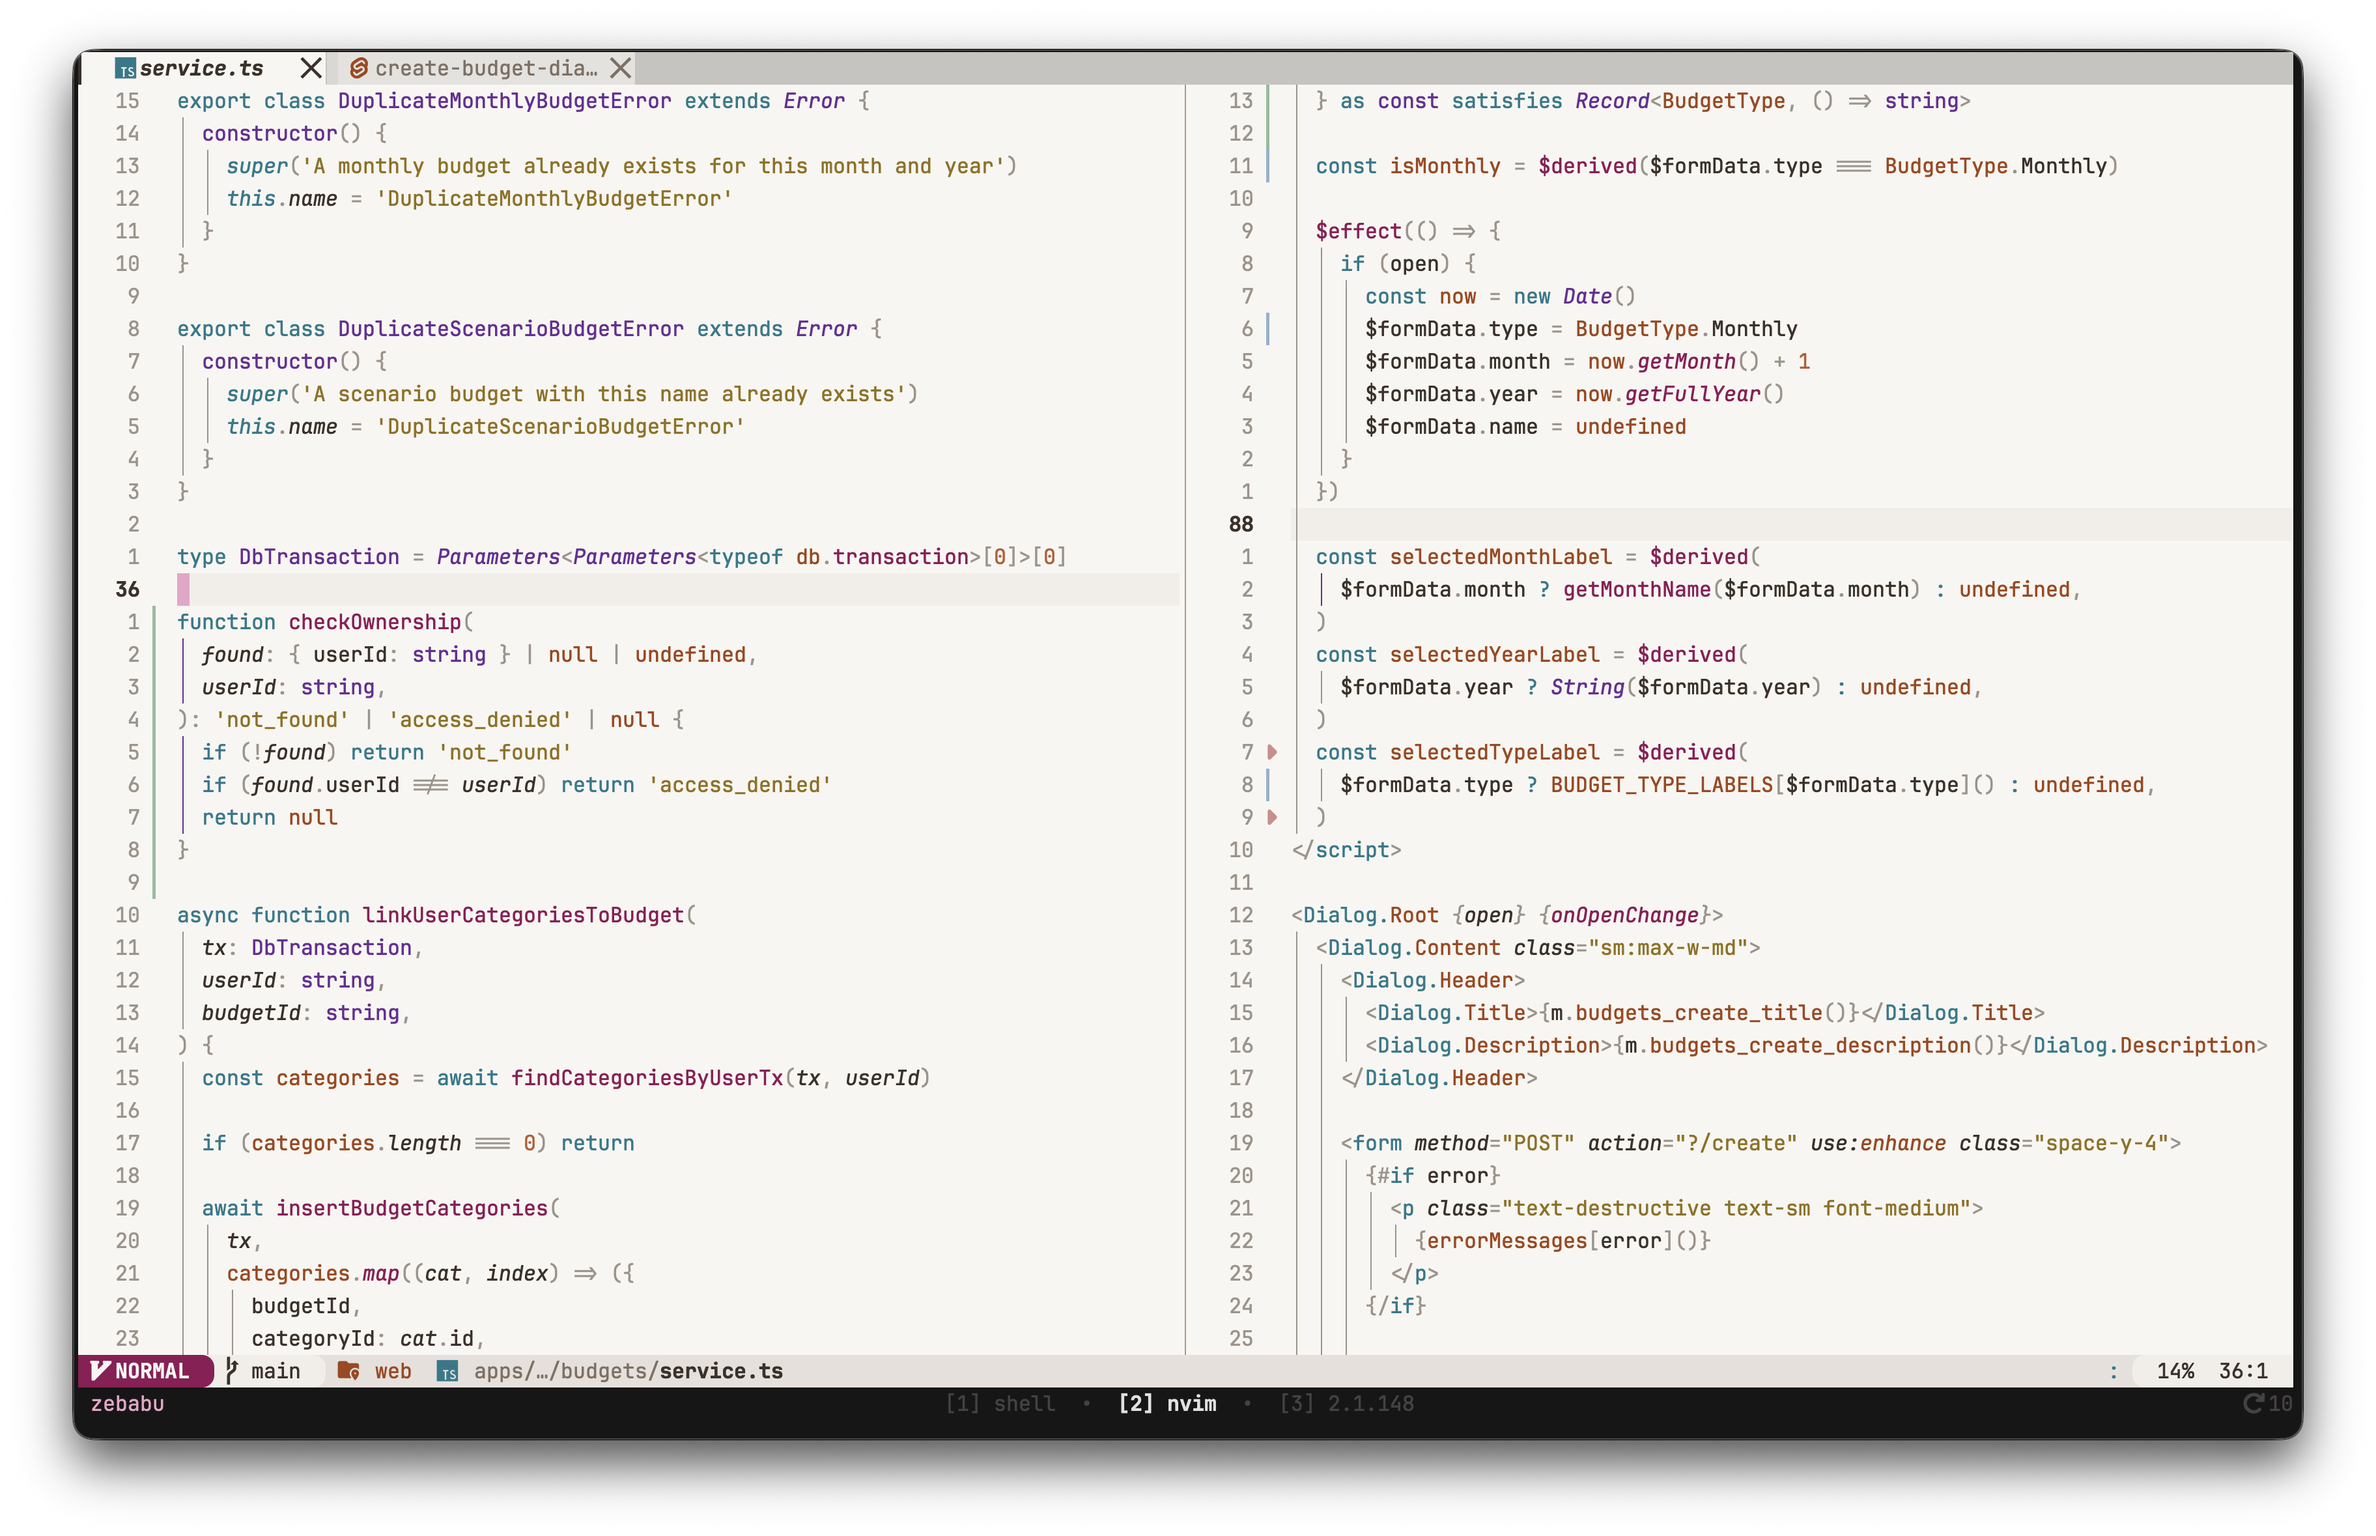
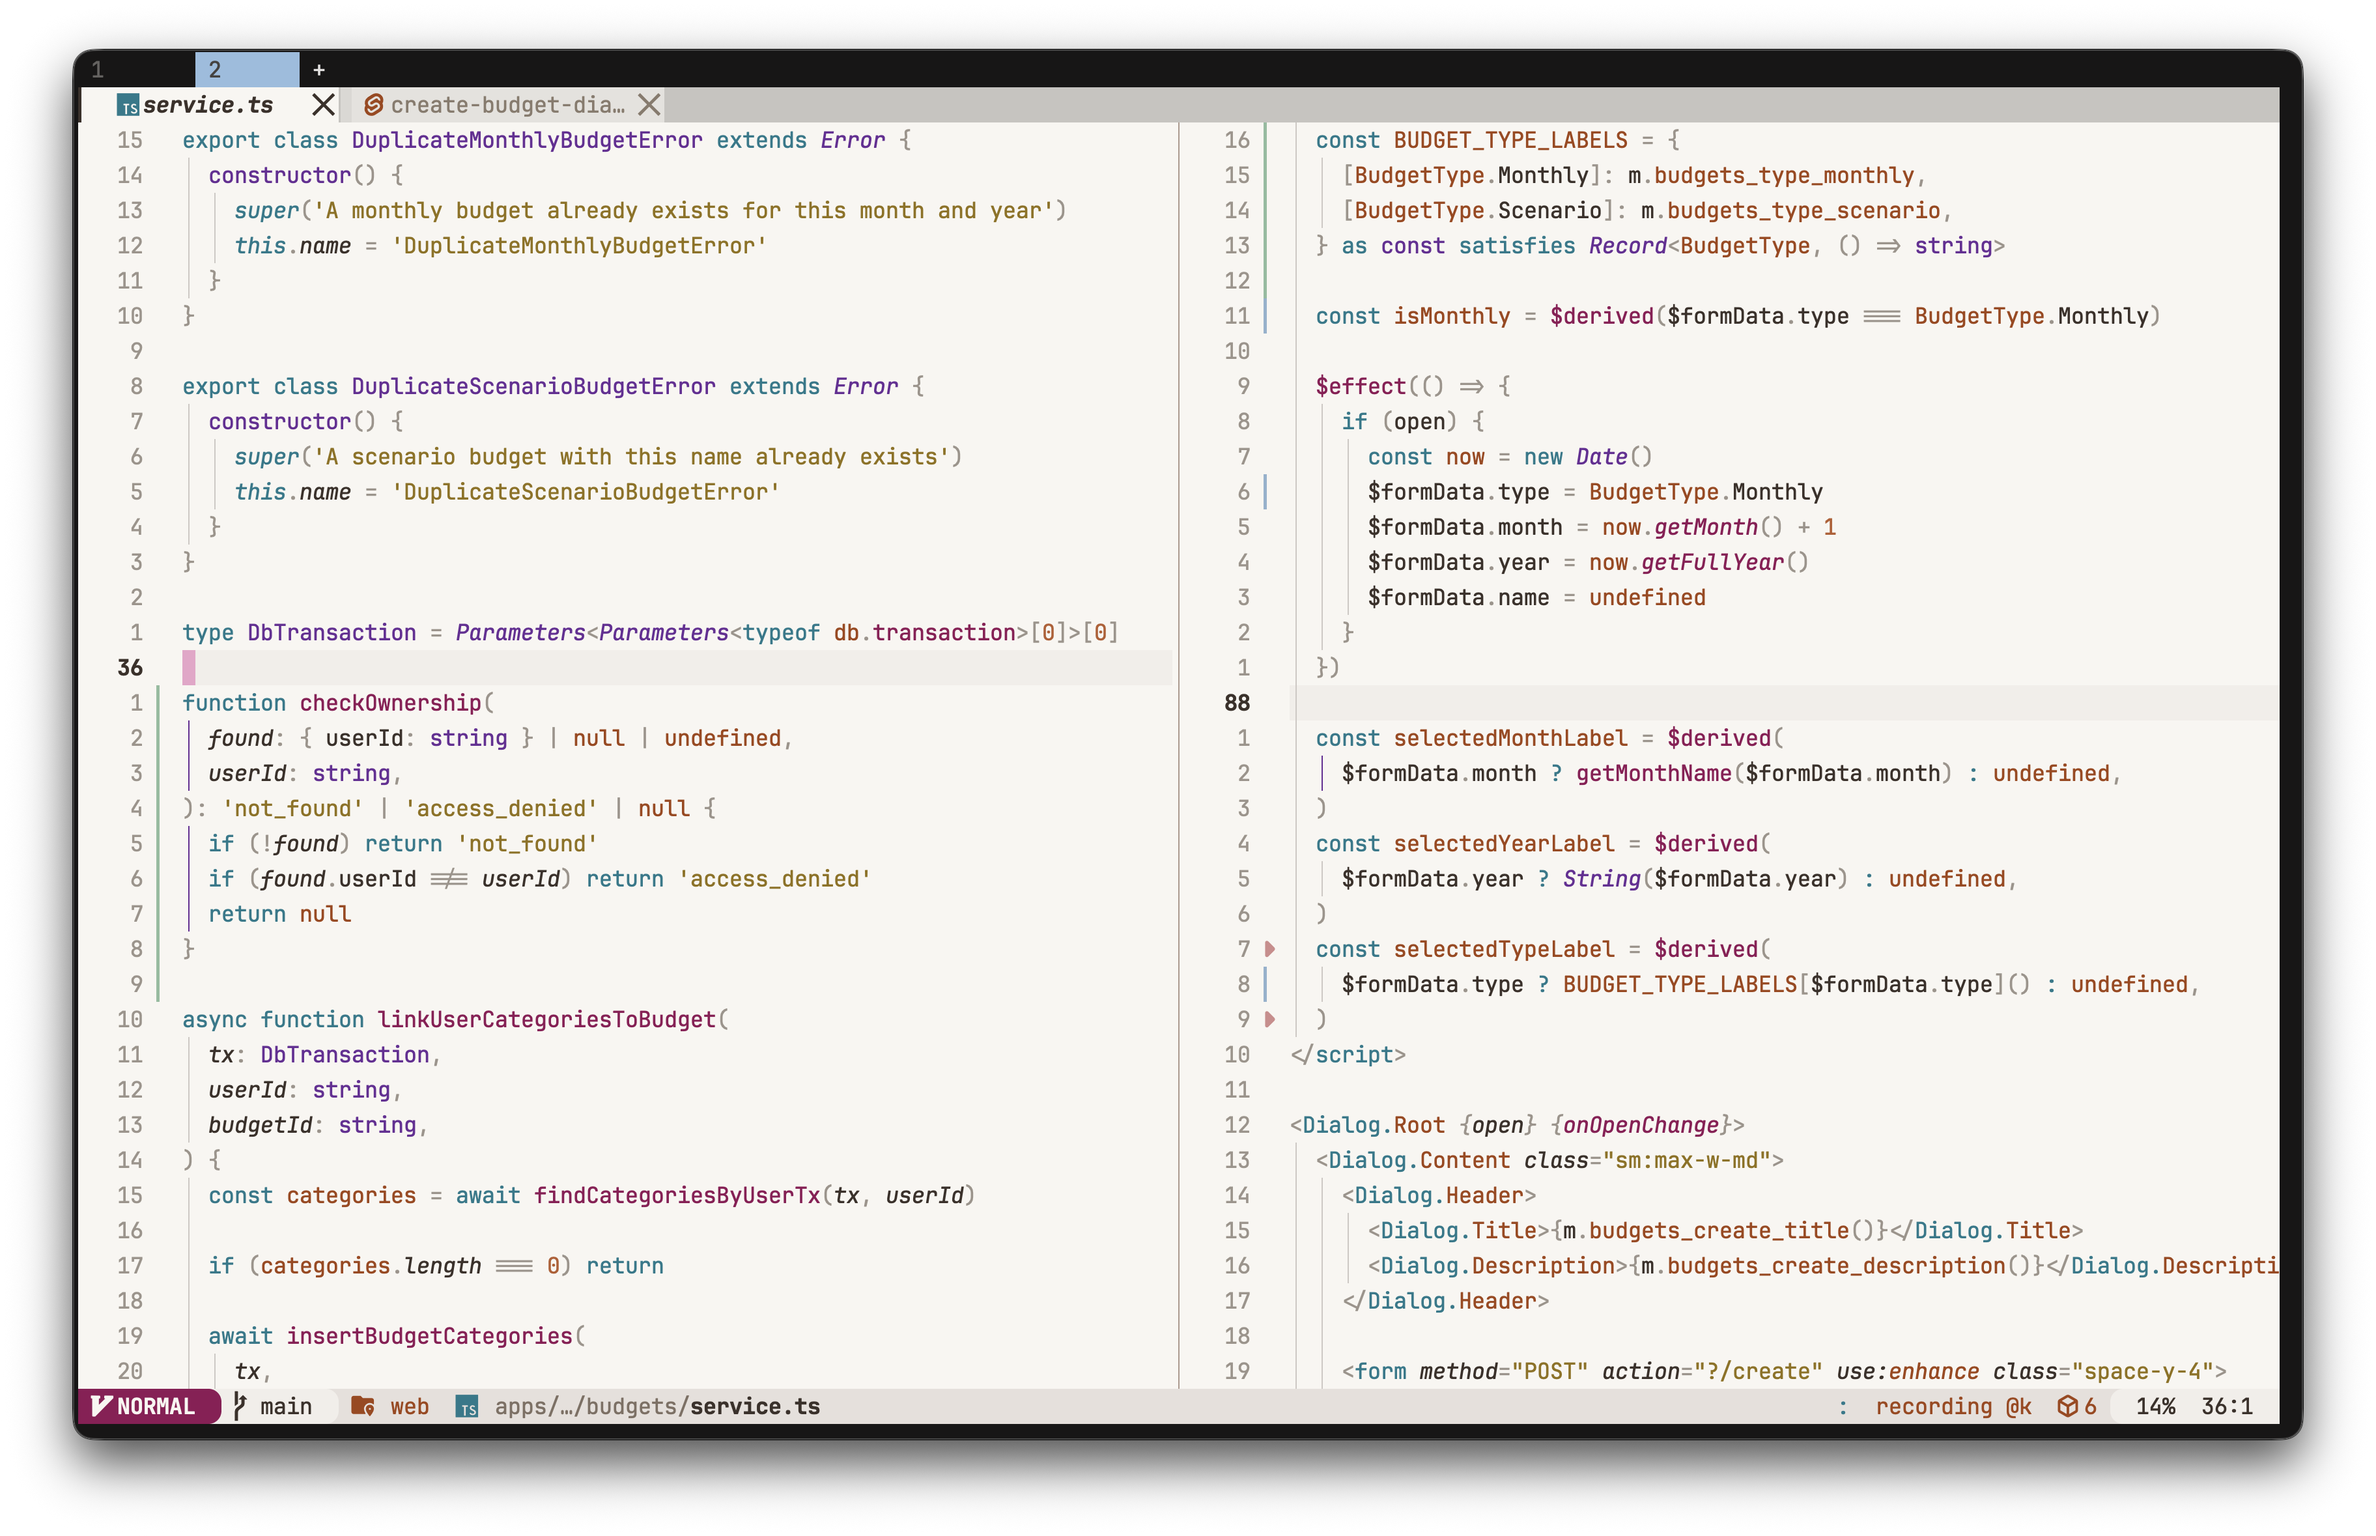
docs: refresh showcase, collapse palette tables (#8)

diff --git a/README.md b/README.md
@@ -16,9 +16,42 @@ Pure Lua. Zero runtime dependencies. Authored in HSL, AAA contrast on the night 
 - **22 plugin integrations, auto-detected via `lazy.nvim`.** Telescope, fzf-lua, Snacks, Gitsigns, nvim-cmp, blink.cmp, mini.*, noice, which-key, trouble, render-markdown, treesitter-context, flash, lazy.nvim, nvim-tree, indent-blankline. Bundled lualine theme.
 - **Ecosystem in the box.** Matching configs for Ghostty, Kitty, Alacritty, WezTerm, Tmux, Fish, and fzf live in `extras/`, regenerated from the same palette. Your editor identity carries through to your shell.
 
+## Showcase
+
+**The full editor surface.** File tree, split buffers, lualine — all keyed to the same six-hue chromatic system.
+
+![editor surface](static/showcase-files.png)
+
+**Markdown via `render-markdown.nvim`.** The rainbow heading wash, fenced code blocks, badges, inline links — all in palette.
+
+![markdown rendering](static/showcase-markdown.png)
+
+**Pickers.** Fuzzy file search floating over a code buffer.
+
+![picker over code](static/showcase-picker.png)
+
+**Git surface.** Log view with an inline commit diff. The only place green is allowed to appear — for `add` lines and nothing else.
+
+![git log and inline diff](static/showcase-git.png)
+
+**Moon — cool dark variant.** The same buffer as the hero up top, neutrals rotated to a calm blue.
+
+![moon variant](static/showcase-moon.png)
+
+**Dawn — light variant.** The same buffer on warm cream — same hue identity, tier-inverted for readability.
+
+![dawn variant](static/showcase-dawn.png)
+
+**Terminal ecosystem.** Ghostty, Kitty, Alacritty, WezTerm, Tmux, and Fish all themed via the `extras/` configs, regenerated from the same palette.
+
+![ghostty, tmux, fish](static/showcase-ghostty-fish-tmux.png)
+
 ## Palette
 
 All three variants are resolved from the same HSL source of truth (`lua/meowsoot/palette.lua`). The tables below are regenerated whenever the palette changes — run `just extras` to refresh. Hex values are real text, so you can select and copy them.
+
+<details>
+<summary><strong>Full swatch tables</strong> — Night · Moon · Dawn (click to expand)</summary>
 
 <!-- palette:start -->
 
@@ -111,33 +144,9 @@ All three variants are resolved from the same HSL source of truth (`lua/meowsoot
 
 <!-- palette:end -->
 
+</details>
+
 The night variant is the main act. **moon** is a cool, blue-tinted dark counterpart — same accents, neutrals rotated to a calm blue (H≈230°) for a Rosé-Pine-Moon mood. **dawn** is a complementary light counterpart with the same hue identity, tier-inverted for readability on cream.
-
-## Showcase
-
-**The full editor surface.** File tree, split buffers, lualine — all keyed to the same six-hue chromatic system.
-
-![editor surface](static/showcase-files.png)
-
-**Markdown via `render-markdown.nvim`.** The rainbow heading wash, fenced code blocks, badges, inline links — all in palette.
-
-![markdown rendering](static/showcase-markdown.png)
-
-**Pickers.** Fuzzy file search floating over a code buffer.
-
-![picker over code](static/showcase-picker.png)
-
-**Git surface.** Log view with an inline commit diff. The only place green is allowed to appear — for `add` lines and nothing else.
-
-![git log and inline diff](static/showcase-git.png)
-
-**Dawn variant.** The same scene in light mode — same hue identity, tier-inverted for readability on warm cream.
-
-![dawn variant](static/showcase-dawn.png)
-
-**Terminal ecosystem.** Ghostty, Kitty, Alacritty, WezTerm, Tmux, and Fish all themed via the `extras/` configs, regenerated from the same palette.
-
-![ghostty, tmux, fish](static/showcase-ghostty-fish-tmux.png)
 
 ## The story
 
